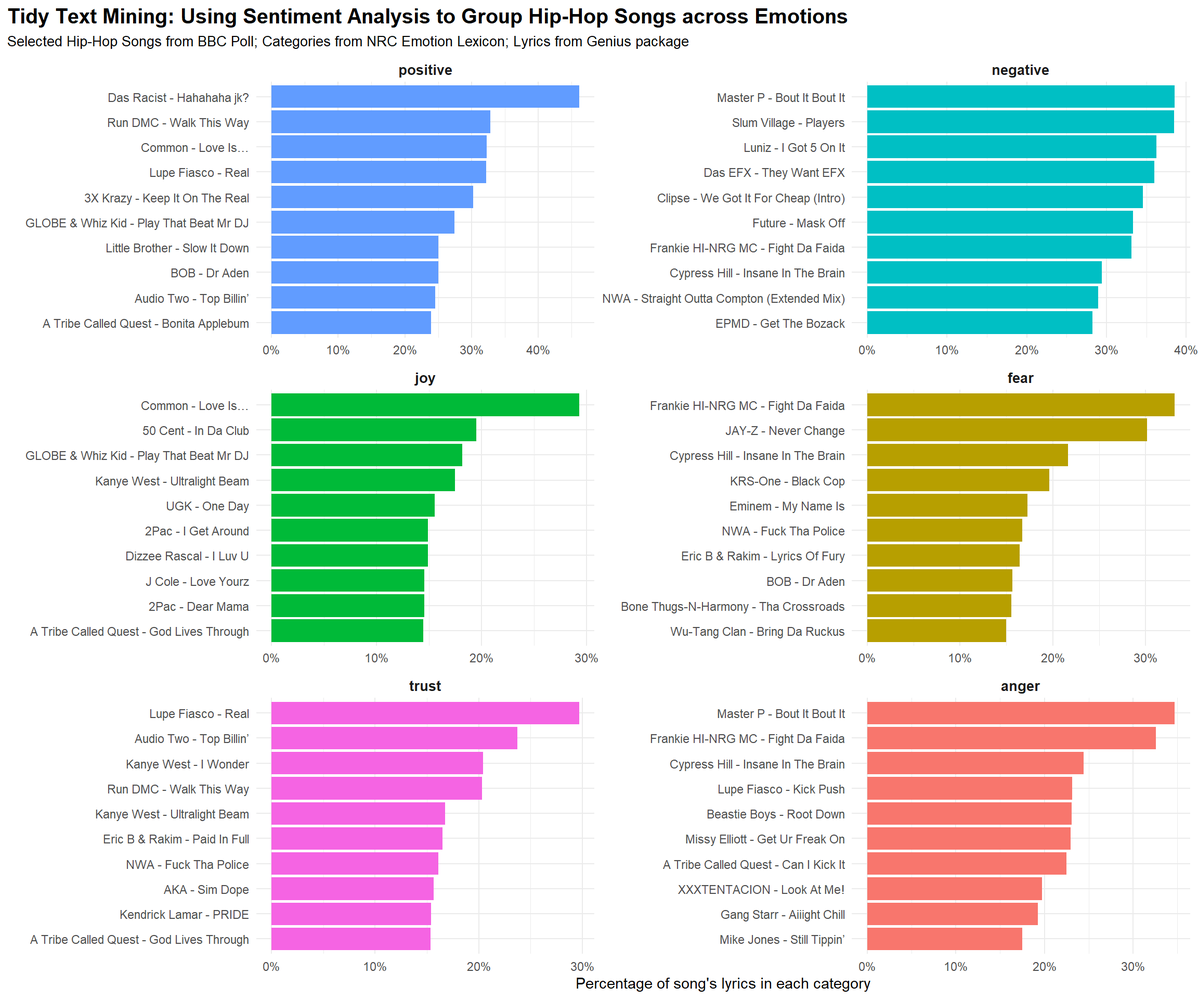
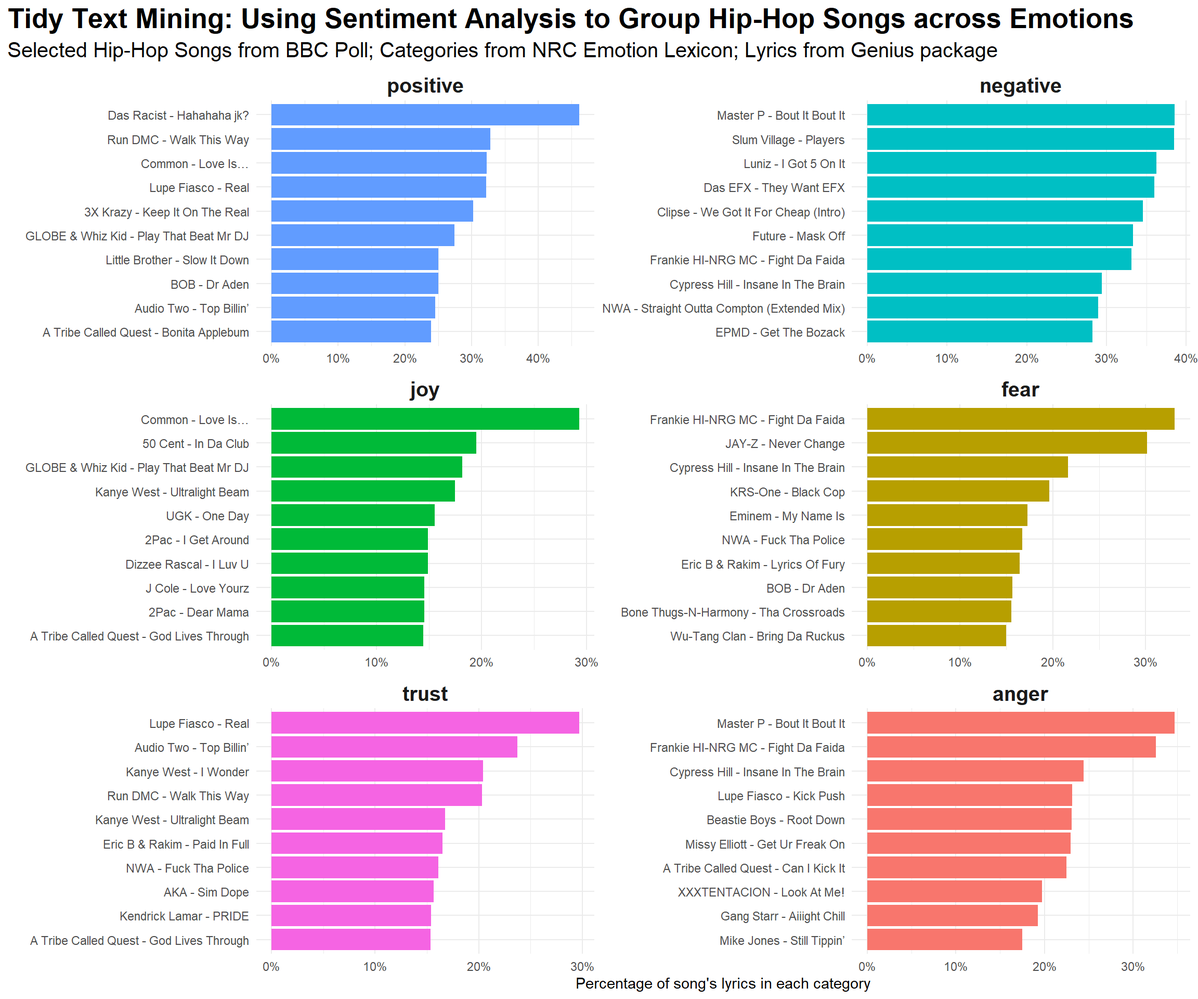
hip-hop blog post update3

Changed region(s): [[0.0, 0.0, 1.0, 0.9688], [0.0625, 0.6562, 0.5, 0.9688]]

diff --git a/public/2020/05/hip-hop-lyrics-be-flowin-with-tidy-text-mining/index.html b/public/2020/05/hip-hop-lyrics-be-flowin-with-tidy-text-mining/index.html
@@ -339,18 +339,18 @@ tidy_lyrics %&gt;%
   select(word, sentiment, line, title, artist, bucket) %&gt;% 
   sample_n(10)</code></pre>
 <pre><code>## # A tibble: 10 x 6
-##    word       sentiment  line title                    artist          bucket   
-##    &lt;chr&gt;      &lt;chr&gt;     &lt;dbl&gt; &lt;chr&gt;                    &lt;chr&gt;           &lt;chr&gt;    
-##  1 belt       fear         16 Gossip                   Lil Wayne       Modern   
-##  2 bless      joy          34 The World Is Yours       Nas             Old Scho~
-##  3 insane     fear         33 Insane In The Brain      Cypress Hill    Old Scho~
-##  4 armor      trust        26 The Rain (Supa Dupa Fly) Missy Elliott   Old Scho~
-##  5 overdue    sadness      42 We Got It For Cheap (In~ Clipse          Modern   
-##  6 death      anger        63 Takkies                  YoungstaCPT     Modern   
-##  7 playground positive     42 Concrete Schoolyard      Jurassic 5      Old Scho~
-##  8 dying      anger        34 Gossip                   Lil Wayne       Modern   
-##  9 smell      disgust      70 Triumph                  Wu-Tang Clan    Old Scho~
-## 10 fight      negative     88 Fight Da Faida           Frankie HI-NRG~ Old Scho~</code></pre>
+##    word     sentiment  line title                artist               bucket    
+##    &lt;chr&gt;    &lt;chr&gt;     &lt;dbl&gt; &lt;chr&gt;                &lt;chr&gt;                &lt;chr&gt;     
+##  1 murder   anger        48 La La La             Lil Wayne            Modern    
+##  2 dirt     disgust      55 OVERSEAS             Bohan Phoenix        Modern    
+##  3 hell     anger        85 I Gave You Power     Nas                  Old School
+##  4 favorite trust        13 Play That Beat Mr DJ GLOBE &amp; Whiz Kid     Modern    
+##  5 boy      negative     89 Mural                Lupe Fiasco          Modern    
+##  6 crash    fear         55 Lucifer              JAY-Z                Modern    
+##  7 bad      anger        18 Kyoto                Yung Lean            Modern    
+##  8 white    trust        77 Hahahaha jk?         Das Racist           Modern    
+##  9 lie      sadness      31 Fuck Tha World       Lil Wayne            Old School
+## 10 fight    anger        53 Scenario             A Tribe Called Quest Old School</code></pre>
 <p>Let’s peek at the top words used in our songs.</p>
 <pre class="r"><code>tidy_lyrics %&gt;% 
   count(word, sort = TRUE) </code></pre>
@@ -427,11 +427,11 @@ lyrics_count &lt;- tidy_lyrics %&gt;%
     subtitle = &quot;Selected Hip-Hop Songs from BBC Poll; Categories from NRC Emotion Lexicon; Lyrics from Genius package&quot;
   ) +
   theme(
-    plot.title = element_text(face = &quot;bold&quot;, size = 15),
+    plot.title = element_text(face = &quot;bold&quot;, size = 20),
     plot.title.position = &quot;plot&quot;,
-    plot.subtitle = element_text(size = 10),
+    plot.subtitle = element_text(size = 15),
     strip.background = element_blank(),
-    strip.text = element_text(face = &quot;bold&quot;, size = 10)
+    strip.text = element_text(face = &quot;bold&quot;, size = 15)
   )</code></pre>
 <p><img src="/post/2020-05-16-hip-hop-lyrics-be-flowin-with-tidy-text-mining_files/figure-html/unnamed-chunk-11-1.png" width="1152" /></p>
 <p>Data is wrangled further with <code>count()</code> and <code>pivot_wider()</code> to obtain a sentiment score. With the score, we can now visualise how sentiment (positive/negative) changes across ten randomly sampled rap songs.</p>
@@ -462,17 +462,17 @@ song_sentiment %&gt;%
     subtitle = &quot;Positive scores indicate positive sentiment, and vice versa.&quot;
   ) +
   theme(
-    plot.title = element_text(face = &quot;bold&quot;, size = 15),
+    plot.title = element_text(face = &quot;bold&quot;, size = 20),
     plot.title.position = &quot;plot&quot;,
-    plot.subtitle = element_text(size = 10),
+    plot.subtitle = element_text(size = 15),
     strip.background = element_blank(),
-    strip.text = element_text(face = &quot;bold&quot;, size = 10)
+    strip.text = element_text(face = &quot;bold&quot;, size = 15)
   )</code></pre>
 <p><img src="/post/2020-05-16-hip-hop-lyrics-be-flowin-with-tidy-text-mining_files/figure-html/unnamed-chunk-12-1.png" width="1152" /></p>
 </div>
 <div id="modelling" class="section level2">
 <h2>Modelling</h2>
-<p>We begin our modelling process that aims to predict if a hip-hop song is Old School (released before the year 2000) or Modern (released in the year 2000 or later) by using feature engineering on its lyrics.</p>
+<p>We begin our modelling process that aims to predict if a hip-hop song is Old School (released before the year 2000) or Modern (released in the year 2000 or later) by using feature engineering on its lyrics as well as artist gender.</p>
 </div>
 <div id="data-splitting" class="section level2">
 <h2>Data Splitting</h2>
@@ -521,8 +521,8 @@ folds</code></pre>
 <p>Here we begin to do some processing on the lyrics that we previously pulled:</p>
 <ul>
 <li>step_tokenize: Similar to <code>unnest_tokens()</code>; this tokenizes our lyrics. The default option is used where words are broken down into single words (as opposed to n-grams or multiple words)</li>
-<li>step_stopwords: Similar to anti-join(stop_words)</li>
-<li>step_tokenfilter: We keep the top 1000 most-used tokens after accounting for the removal of stop words</li>
+<li>step_stopwords: Similar to <code>anti-join(stop_words)</code></li>
+<li>step_tokenfilter: We keep the top 2000 most-used tokens after accounting for the removal of stop words</li>
 <li>step_tfidf: The statistic <a href="https://www.tidytextmining.com/tfidf.html">tf-idf</a>, or term frequency multiplied by inverse document frequency, identifies words that are important to one document within a collection of documents.</li>
 <li>step_normalize: Once the words have been converted to tf-idf values, they will then be centered and scaled i.e. normalized. This is important as the LASSO model is not robust to outliers.</li>
 <li>step_dummy: Standard practise to convert factor/character columns (such as our <code>gender</code> bucket) to <a href="https://bookdown.org/max/FES/creating-dummy-variables-for-unordered-categories.html">dummy variables</a> to make them numeric.</li>
@@ -560,17 +560,17 @@ prep(hiphop_rec) </code></pre>
 </div>
 <div id="workflows" class="section level2">
 <h2>Workflows</h2>
-<p>We next use the <code>workflows</code> package to bundle our model and recipes. Personally I’m rather excited after this package as it has not only has great synergy with the ecosystem, but it makes the process cleaner and more intuitive - especially compared to my previous <a href="https://desmondchoy.netlify.app/2020/04/food-consumption-and-co2-emissions/">tidymodels post</a> where I have yet to learn about <code>workflows</code>.</p>
+<p>We next use the <code>workflows</code> package to bundle our model and recipes. Personally I’m rather excited after this package as it has not only has great synergy with the ecosystem, but it makes the process cleaner and more intuitive - especially compared to my previous <a href="https://desmondchoy.netlify.app/2020/04/food-consumption-and-co2-emissions/">tidymodels post</a>.</p>
 <pre class="r"><code>lr_wflow &lt;- workflow() %&gt;% 
   add_model(lr_model) %&gt;% 
   add_recipe(hiphop_rec)
   
 lr_wflow</code></pre>
-<pre><code>## == Workflow =======================================================================================
+<pre><code>## == Workflow ========================================================================================
 ## Preprocessor: Recipe
 ## Model: logistic_reg()
 ## 
-## -- Preprocessor -----------------------------------------------------------------------------------
+## -- Preprocessor ------------------------------------------------------------------------------------
 ## 6 Recipe Steps
 ## 
 ## * step_tokenize()
@@ -580,7 +580,7 @@ lr_wflow</code></pre>
 ## * step_normalize()
 ## * step_dummy()
 ## 
-## -- Model ------------------------------------------------------------------------------------------
+## -- Model -------------------------------------------------------------------------------------------
 ## Logistic Regression Model Specification (classification)
 ## 
 ## Main Arguments:
@@ -593,7 +593,7 @@ lr_wflow</code></pre>
 <h2>Tuning</h2>
 <p>Recall the penalty hyperparamter in our model was given the placeholder <code>tune()</code>. To find an optimal value, we first create a set of possible regularization parameters to conduct a grid search.</p>
 <pre class="r"><code>grid &lt;- grid_regular(penalty(), levels = 40)</code></pre>
-<p>Together with our resampled tibble created earlier, we can begin tuning. We can further specify relevant metrics - in this case, <code>AUC</code>, positive predictive value (<code>PPV</code>), negative predictive value (<code>npv</code>), and mean log loss (<code>mn_log_loss</code>) which takes into account the uncertainty in the prediction and gives a more detailed view into the actual performance.</p>
+<p>Together with our resampled tibble created earlier, we can begin tuning. We can further specify relevant metrics - in this case, <code>roc_auc</code>, positive predictive value (<code>ppv</code>), negative predictive value (<code>npv</code>), and mean log loss (<code>mn_log_loss</code>) which takes into account the uncertainty in the prediction and gives a more detailed view into the actual performance.</p>
 <pre class="r"><code>#doParallel::registerDoParallel()
 #Step recommended by Julia Silge. Gives me an error on my Windows PC but perhaps it works on Mac?
 
@@ -635,11 +635,11 @@ lr_grid &lt;- tune_grid(
 final_lr &lt;- lr_wflow %&gt;%
   finalize_workflow(best_auc)
 final_lr</code></pre>
-<pre><code>## == Workflow =======================================================================================
+<pre><code>## == Workflow ========================================================================================
 ## Preprocessor: Recipe
 ## Model: logistic_reg()
 ## 
-## -- Preprocessor -----------------------------------------------------------------------------------
+## -- Preprocessor ------------------------------------------------------------------------------------
 ## 6 Recipe Steps
 ## 
 ## * step_tokenize()
@@ -649,7 +649,7 @@ final_lr</code></pre>
 ## * step_normalize()
 ## * step_dummy()
 ## 
-## -- Model ------------------------------------------------------------------------------------------
+## -- Model -------------------------------------------------------------------------------------------
 ## Logistic Regression Model Specification (classification)
 ## 
 ## Main Arguments:
@@ -685,11 +685,11 @@ final_lr %&gt;%
        title = &quot;Hip-hop lyrics with the highest importance when determining the era of a song&quot;,
        subtitle = &quot;Modern: Released in 2000 or after; Old School: Songs released before 2000&quot;) +
   theme(
-    plot.title = element_text(face = &quot;bold&quot;, size = 15),
+    plot.title = element_text(face = &quot;bold&quot;, size = 20),
     plot.title.position = &quot;plot&quot;,
-    plot.subtitle = element_text(size = 10),
+    plot.subtitle = element_text(size = 15),
     strip.background = element_blank(),
-    strip.text = element_text(face = &quot;bold&quot;, size = 10)
+    strip.text = element_text(face = &quot;bold&quot;, size = 15)
   )</code></pre>
 <p><img src="/post/2020-05-16-hip-hop-lyrics-be-flowin-with-tidy-text-mining_files/figure-html/unnamed-chunk-23-1.png" width="1152" /></p>
 <p><code>gender_mixed</code> immediately stands out as an outlier. Taking a look at lyrics data once more, it is now apparent why <code>gender_mixed</code> contributed improportionately. Out of all of the songs that were tagged as <code>gender_mixed</code>, lyrics were only pulled for one!</p>
@@ -782,11 +782,11 @@ final_lr_v2 &lt;- lr_wflow_v2 %&gt;%
        title = &quot;Hip-hop lyrics with the highest importance when determining the era of a song&quot;,
        subtitle = &quot;Modern: Released in 2000 or after; Old School: Songs released before 2000&quot;) +
   theme(
-    plot.title = element_text(face = &quot;bold&quot;, size = 15),
+    plot.title = element_text(face = &quot;bold&quot;, size = 20),
     plot.title.position = &quot;plot&quot;,
-    plot.subtitle = element_text(size = 10),
+    plot.subtitle = element_text(size = 15),
     strip.background = element_blank(),
-    strip.text = element_text(face = &quot;bold&quot;, size = 10)
+    strip.text = element_text(face = &quot;bold&quot;, size = 15)
   )</code></pre>
 <p><img src="/post/2020-05-16-hip-hop-lyrics-be-flowin-with-tidy-text-mining_files/figure-html/unnamed-chunk-27-1.png" width="1152" /></p>
 </div>
@@ -815,7 +815,7 @@ hiphop_final %&gt;%
 ##   &lt;chr&gt;      &lt;int&gt;   &lt;dbl&gt;
 ## 1 Modern      5447   0.465
 ## 2 Old School  6278   0.535</code></pre>
-<p>Writing and re-iterating through this blog post was fascinating and educational - giving me preliminary insights to the domain of NLP and another opportunity to familiarise myself with tidymodels. The tidy text mining workflow is testament to how robust the <code>dplyr</code> package is when it comes to data wrangling.</p>
+<p>Writing and re-iterating through this blog post was fascinating and educational - giving me preliminary insight to the domain of NLP and another opportunity to familiarise myself with <code>tidymodels</code>. Lastly, the tidy text mining workflow is testament to how robust the <code>dplyr</code> package is when it comes to data wrangling.</p>
 </div>
 
               

diff --git a/content/post/2020-05-16-hip-hop-lyrics-be-flowin-with-tidy-text-mining.html b/content/post/2020-05-16-hip-hop-lyrics-be-flowin-with-tidy-text-mining.html
@@ -133,18 +133,18 @@ tidy_lyrics %&gt;%
   select(word, sentiment, line, title, artist, bucket) %&gt;% 
   sample_n(10)</code></pre>
 <pre><code>## # A tibble: 10 x 6
-##    word       sentiment  line title                    artist          bucket   
-##    &lt;chr&gt;      &lt;chr&gt;     &lt;dbl&gt; &lt;chr&gt;                    &lt;chr&gt;           &lt;chr&gt;    
-##  1 belt       fear         16 Gossip                   Lil Wayne       Modern   
-##  2 bless      joy          34 The World Is Yours       Nas             Old Scho~
-##  3 insane     fear         33 Insane In The Brain      Cypress Hill    Old Scho~
-##  4 armor      trust        26 The Rain (Supa Dupa Fly) Missy Elliott   Old Scho~
-##  5 overdue    sadness      42 We Got It For Cheap (In~ Clipse          Modern   
-##  6 death      anger        63 Takkies                  YoungstaCPT     Modern   
-##  7 playground positive     42 Concrete Schoolyard      Jurassic 5      Old Scho~
-##  8 dying      anger        34 Gossip                   Lil Wayne       Modern   
-##  9 smell      disgust      70 Triumph                  Wu-Tang Clan    Old Scho~
-## 10 fight      negative     88 Fight Da Faida           Frankie HI-NRG~ Old Scho~</code></pre>
+##    word     sentiment  line title                artist               bucket    
+##    &lt;chr&gt;    &lt;chr&gt;     &lt;dbl&gt; &lt;chr&gt;                &lt;chr&gt;                &lt;chr&gt;     
+##  1 murder   anger        48 La La La             Lil Wayne            Modern    
+##  2 dirt     disgust      55 OVERSEAS             Bohan Phoenix        Modern    
+##  3 hell     anger        85 I Gave You Power     Nas                  Old School
+##  4 favorite trust        13 Play That Beat Mr DJ GLOBE &amp; Whiz Kid     Modern    
+##  5 boy      negative     89 Mural                Lupe Fiasco          Modern    
+##  6 crash    fear         55 Lucifer              JAY-Z                Modern    
+##  7 bad      anger        18 Kyoto                Yung Lean            Modern    
+##  8 white    trust        77 Hahahaha jk?         Das Racist           Modern    
+##  9 lie      sadness      31 Fuck Tha World       Lil Wayne            Old School
+## 10 fight    anger        53 Scenario             A Tribe Called Quest Old School</code></pre>
 <p>Let’s peek at the top words used in our songs.</p>
 <pre class="r"><code>tidy_lyrics %&gt;% 
   count(word, sort = TRUE) </code></pre>
@@ -221,11 +221,11 @@ lyrics_count &lt;- tidy_lyrics %&gt;%
     subtitle = &quot;Selected Hip-Hop Songs from BBC Poll; Categories from NRC Emotion Lexicon; Lyrics from Genius package&quot;
   ) +
   theme(
-    plot.title = element_text(face = &quot;bold&quot;, size = 15),
+    plot.title = element_text(face = &quot;bold&quot;, size = 20),
     plot.title.position = &quot;plot&quot;,
-    plot.subtitle = element_text(size = 10),
+    plot.subtitle = element_text(size = 15),
     strip.background = element_blank(),
-    strip.text = element_text(face = &quot;bold&quot;, size = 10)
+    strip.text = element_text(face = &quot;bold&quot;, size = 15)
   )</code></pre>
 <p><img src="/post/2020-05-16-hip-hop-lyrics-be-flowin-with-tidy-text-mining_files/figure-html/unnamed-chunk-11-1.png" width="1152" /></p>
 <p>Data is wrangled further with <code>count()</code> and <code>pivot_wider()</code> to obtain a sentiment score. With the score, we can now visualise how sentiment (positive/negative) changes across ten randomly sampled rap songs.</p>
@@ -256,17 +256,17 @@ song_sentiment %&gt;%
     subtitle = &quot;Positive scores indicate positive sentiment, and vice versa.&quot;
   ) +
   theme(
-    plot.title = element_text(face = &quot;bold&quot;, size = 15),
+    plot.title = element_text(face = &quot;bold&quot;, size = 20),
     plot.title.position = &quot;plot&quot;,
-    plot.subtitle = element_text(size = 10),
+    plot.subtitle = element_text(size = 15),
     strip.background = element_blank(),
-    strip.text = element_text(face = &quot;bold&quot;, size = 10)
+    strip.text = element_text(face = &quot;bold&quot;, size = 15)
   )</code></pre>
 <p><img src="/post/2020-05-16-hip-hop-lyrics-be-flowin-with-tidy-text-mining_files/figure-html/unnamed-chunk-12-1.png" width="1152" /></p>
 </div>
 <div id="modelling" class="section level2">
 <h2>Modelling</h2>
-<p>We begin our modelling process that aims to predict if a hip-hop song is Old School (released before the year 2000) or Modern (released in the year 2000 or later) by using feature engineering on its lyrics.</p>
+<p>We begin our modelling process that aims to predict if a hip-hop song is Old School (released before the year 2000) or Modern (released in the year 2000 or later) by using feature engineering on its lyrics as well as artist gender.</p>
 </div>
 <div id="data-splitting" class="section level2">
 <h2>Data Splitting</h2>
@@ -315,8 +315,8 @@ folds</code></pre>
 <p>Here we begin to do some processing on the lyrics that we previously pulled:</p>
 <ul>
 <li>step_tokenize: Similar to <code>unnest_tokens()</code>; this tokenizes our lyrics. The default option is used where words are broken down into single words (as opposed to n-grams or multiple words)</li>
-<li>step_stopwords: Similar to anti-join(stop_words)</li>
-<li>step_tokenfilter: We keep the top 1000 most-used tokens after accounting for the removal of stop words</li>
+<li>step_stopwords: Similar to <code>anti-join(stop_words)</code></li>
+<li>step_tokenfilter: We keep the top 2000 most-used tokens after accounting for the removal of stop words</li>
 <li>step_tfidf: The statistic <a href="https://www.tidytextmining.com/tfidf.html">tf-idf</a>, or term frequency multiplied by inverse document frequency, identifies words that are important to one document within a collection of documents.</li>
 <li>step_normalize: Once the words have been converted to tf-idf values, they will then be centered and scaled i.e. normalized. This is important as the LASSO model is not robust to outliers.</li>
 <li>step_dummy: Standard practise to convert factor/character columns (such as our <code>gender</code> bucket) to <a href="https://bookdown.org/max/FES/creating-dummy-variables-for-unordered-categories.html">dummy variables</a> to make them numeric.</li>
@@ -354,17 +354,17 @@ prep(hiphop_rec) </code></pre>
 </div>
 <div id="workflows" class="section level2">
 <h2>Workflows</h2>
-<p>We next use the <code>workflows</code> package to bundle our model and recipes. Personally I’m rather excited after this package as it has not only has great synergy with the ecosystem, but it makes the process cleaner and more intuitive - especially compared to my previous <a href="https://desmondchoy.netlify.app/2020/04/food-consumption-and-co2-emissions/">tidymodels post</a> where I have yet to learn about <code>workflows</code>.</p>
+<p>We next use the <code>workflows</code> package to bundle our model and recipes. Personally I’m rather excited after this package as it has not only has great synergy with the ecosystem, but it makes the process cleaner and more intuitive - especially compared to my previous <a href="https://desmondchoy.netlify.app/2020/04/food-consumption-and-co2-emissions/">tidymodels post</a>.</p>
 <pre class="r"><code>lr_wflow &lt;- workflow() %&gt;% 
   add_model(lr_model) %&gt;% 
   add_recipe(hiphop_rec)
   
 lr_wflow</code></pre>
-<pre><code>## == Workflow =======================================================================================
+<pre><code>## == Workflow ========================================================================================
 ## Preprocessor: Recipe
 ## Model: logistic_reg()
 ## 
-## -- Preprocessor -----------------------------------------------------------------------------------
+## -- Preprocessor ------------------------------------------------------------------------------------
 ## 6 Recipe Steps
 ## 
 ## * step_tokenize()
@@ -374,7 +374,7 @@ lr_wflow</code></pre>
 ## * step_normalize()
 ## * step_dummy()
 ## 
-## -- Model ------------------------------------------------------------------------------------------
+## -- Model -------------------------------------------------------------------------------------------
 ## Logistic Regression Model Specification (classification)
 ## 
 ## Main Arguments:
@@ -387,7 +387,7 @@ lr_wflow</code></pre>
 <h2>Tuning</h2>
 <p>Recall the penalty hyperparamter in our model was given the placeholder <code>tune()</code>. To find an optimal value, we first create a set of possible regularization parameters to conduct a grid search.</p>
 <pre class="r"><code>grid &lt;- grid_regular(penalty(), levels = 40)</code></pre>
-<p>Together with our resampled tibble created earlier, we can begin tuning. We can further specify relevant metrics - in this case, <code>AUC</code>, positive predictive value (<code>PPV</code>), negative predictive value (<code>npv</code>), and mean log loss (<code>mn_log_loss</code>) which takes into account the uncertainty in the prediction and gives a more detailed view into the actual performance.</p>
+<p>Together with our resampled tibble created earlier, we can begin tuning. We can further specify relevant metrics - in this case, <code>roc_auc</code>, positive predictive value (<code>ppv</code>), negative predictive value (<code>npv</code>), and mean log loss (<code>mn_log_loss</code>) which takes into account the uncertainty in the prediction and gives a more detailed view into the actual performance.</p>
 <pre class="r"><code>#doParallel::registerDoParallel()
 #Step recommended by Julia Silge. Gives me an error on my Windows PC but perhaps it works on Mac?
 
@@ -429,11 +429,11 @@ lr_grid &lt;- tune_grid(
 final_lr &lt;- lr_wflow %&gt;%
   finalize_workflow(best_auc)
 final_lr</code></pre>
-<pre><code>## == Workflow =======================================================================================
+<pre><code>## == Workflow ========================================================================================
 ## Preprocessor: Recipe
 ## Model: logistic_reg()
 ## 
-## -- Preprocessor -----------------------------------------------------------------------------------
+## -- Preprocessor ------------------------------------------------------------------------------------
 ## 6 Recipe Steps
 ## 
 ## * step_tokenize()
@@ -443,7 +443,7 @@ final_lr</code></pre>
 ## * step_normalize()
 ## * step_dummy()
 ## 
-## -- Model ------------------------------------------------------------------------------------------
+## -- Model -------------------------------------------------------------------------------------------
 ## Logistic Regression Model Specification (classification)
 ## 
 ## Main Arguments:
@@ -479,11 +479,11 @@ final_lr %&gt;%
        title = &quot;Hip-hop lyrics with the highest importance when determining the era of a song&quot;,
        subtitle = &quot;Modern: Released in 2000 or after; Old School: Songs released before 2000&quot;) +
   theme(
-    plot.title = element_text(face = &quot;bold&quot;, size = 15),
+    plot.title = element_text(face = &quot;bold&quot;, size = 20),
     plot.title.position = &quot;plot&quot;,
-    plot.subtitle = element_text(size = 10),
+    plot.subtitle = element_text(size = 15),
     strip.background = element_blank(),
-    strip.text = element_text(face = &quot;bold&quot;, size = 10)
+    strip.text = element_text(face = &quot;bold&quot;, size = 15)
   )</code></pre>
 <p><img src="/post/2020-05-16-hip-hop-lyrics-be-flowin-with-tidy-text-mining_files/figure-html/unnamed-chunk-23-1.png" width="1152" /></p>
 <p><code>gender_mixed</code> immediately stands out as an outlier. Taking a look at lyrics data once more, it is now apparent why <code>gender_mixed</code> contributed improportionately. Out of all of the songs that were tagged as <code>gender_mixed</code>, lyrics were only pulled for one!</p>
@@ -576,11 +576,11 @@ final_lr_v2 &lt;- lr_wflow_v2 %&gt;%
        title = &quot;Hip-hop lyrics with the highest importance when determining the era of a song&quot;,
        subtitle = &quot;Modern: Released in 2000 or after; Old School: Songs released before 2000&quot;) +
   theme(
-    plot.title = element_text(face = &quot;bold&quot;, size = 15),
+    plot.title = element_text(face = &quot;bold&quot;, size = 20),
     plot.title.position = &quot;plot&quot;,
-    plot.subtitle = element_text(size = 10),
+    plot.subtitle = element_text(size = 15),
     strip.background = element_blank(),
-    strip.text = element_text(face = &quot;bold&quot;, size = 10)
+    strip.text = element_text(face = &quot;bold&quot;, size = 15)
   )</code></pre>
 <p><img src="/post/2020-05-16-hip-hop-lyrics-be-flowin-with-tidy-text-mining_files/figure-html/unnamed-chunk-27-1.png" width="1152" /></p>
 </div>
@@ -609,5 +609,5 @@ hiphop_final %&gt;%
 ##   &lt;chr&gt;      &lt;int&gt;   &lt;dbl&gt;
 ## 1 Modern      5447   0.465
 ## 2 Old School  6278   0.535</code></pre>
-<p>Writing and re-iterating through this blog post was fascinating and educational - giving me preliminary insights to the domain of NLP and another opportunity to familiarise myself with tidymodels. The tidy text mining workflow is testament to how robust the <code>dplyr</code> package is when it comes to data wrangling.</p>
+<p>Writing and re-iterating through this blog post was fascinating and educational - giving me preliminary insight to the domain of NLP and another opportunity to familiarise myself with <code>tidymodels</code>. Lastly, the tidy text mining workflow is testament to how robust the <code>dplyr</code> package is when it comes to data wrangling.</p>
 </div>
